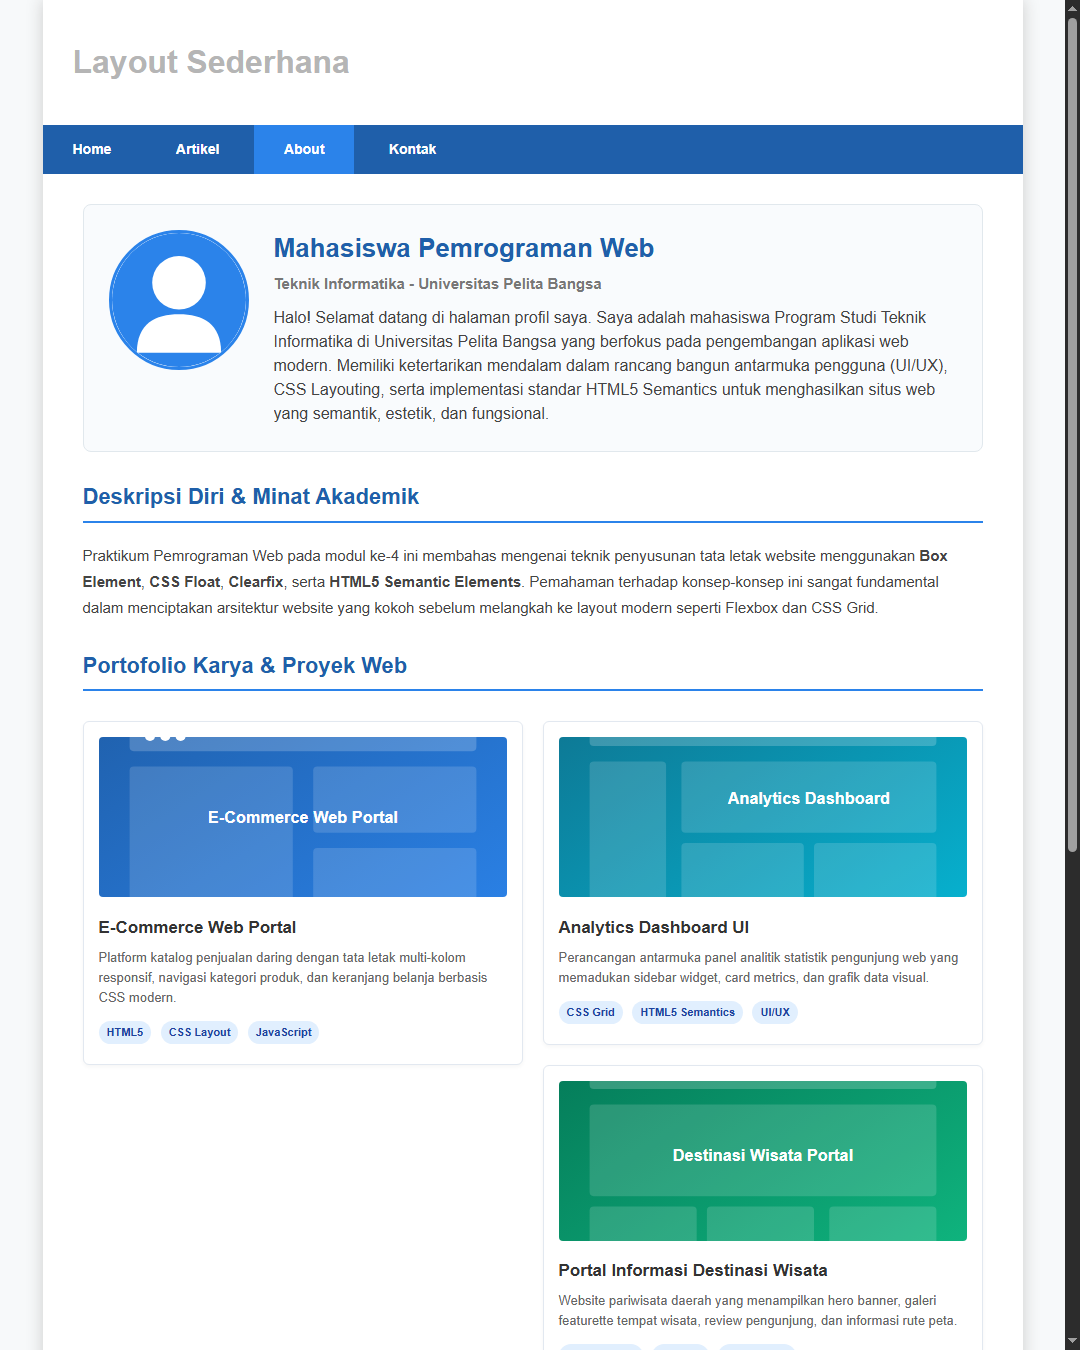
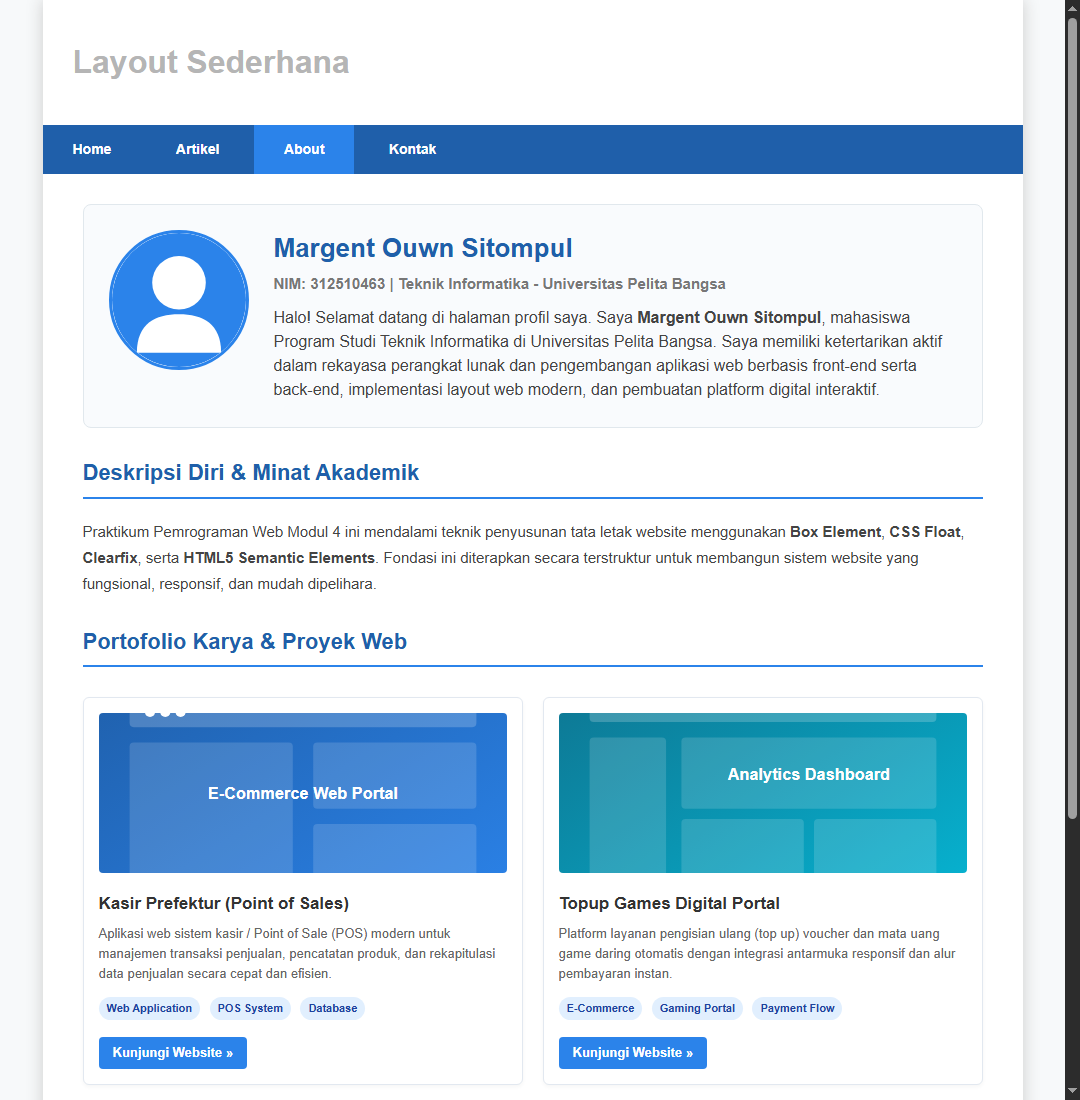
update: set Margent Ouwn Sitompul NIM 312510463 and live portfolio projects

diff --git a/lab4_layout/about.html b/lab4_layout/about.html
@@ -27,10 +27,10 @@
             <div class="profile-card">
                 <img src="images/avatar.svg" alt="Foto Profil" class="avatar">
                 <div class="bio">
-                    <h2>Mahasiswa Pemrograman Web</h2>
-                    <h4>Teknik Informatika - Universitas Pelita Bangsa</h4>
+                    <h2>Margent Ouwn Sitompul</h2>
+                    <h4>NIM: 312510463 | Teknik Informatika - Universitas Pelita Bangsa</h4>
                     <p>
-                        Halo! Selamat datang di halaman profil saya. Saya adalah mahasiswa Program Studi Teknik Informatika di Universitas Pelita Bangsa yang berfokus pada pengembangan aplikasi web modern. Memiliki ketertarikan mendalam dalam rancang bangun antarmuka pengguna (UI/UX), CSS Layouting, serta implementasi standar HTML5 Semantics untuk menghasilkan situs web yang semantik, estetik, dan fungsional.
+                        Halo! Selamat datang di halaman profil saya. Saya <strong>Margent Ouwn Sitompul</strong>, mahasiswa Program Studi Teknik Informatika di Universitas Pelita Bangsa. Saya memiliki ketertarikan aktif dalam rekayasa perangkat lunak dan pengembangan aplikasi web berbasis front-end serta back-end, implementasi layout web modern, dan pembuatan platform digital interaktif.
                     </p>
                 </div>
             </div>
@@ -38,65 +38,39 @@
             <!-- Deskripsi / Tentang Saya -->
             <h3 class="section-title">Deskripsi Diri & Minat Akademik</h3>
             <p style="line-height: 26px; margin-bottom: 20px; font-size: 15px; color: #444;">
-                Praktikum Pemrograman Web pada modul ke-4 ini membahas mengenai teknik penyusunan tata letak website menggunakan <strong>Box Element</strong>, <strong>CSS Float</strong>, <strong>Clearfix</strong>, serta <strong>HTML5 Semantic Elements</strong>. Pemahaman terhadap konsep-konsep ini sangat fundamental dalam menciptakan arsitektur website yang kokoh sebelum melangkah ke layout modern seperti Flexbox dan CSS Grid.
+                Praktikum Pemrograman Web Modul 4 ini mendalami teknik penyusunan tata letak website menggunakan <strong>Box Element</strong>, <strong>CSS Float</strong>, <strong>Clearfix</strong>, serta <strong>HTML5 Semantic Elements</strong>. Fondasi ini diterapkan secara terstruktur untuk membangun sistem website yang fungsional, responsif, dan mudah dipelihara.
             </p>
 
             <!-- Portofolio Proyek -->
             <h3 class="section-title">Portofolio Karya & Proyek Web</h3>
             <div class="portfolio-grid">
-                <!-- Proyek 1 -->
+                <!-- Proyek 1: Kasir Prefektur -->
                 <div class="portfolio-card">
                     <div class="portfolio-inner">
-                        <img src="images/portfolio1.svg" alt="E-Commerce Web Portal">
-                        <h3>E-Commerce Web Portal</h3>
-                        <p>Platform katalog penjualan daring dengan tata letak multi-kolom responsif, navigasi kategori produk, dan keranjang belanja berbasis CSS modern.</p>
-                        <div>
-                            <span class="tag-badge">HTML5</span>
-                            <span class="tag-badge">CSS Layout</span>
-                            <span class="tag-badge">JavaScript</span>
+                        <img src="images/portfolio1.svg" alt="Kasir Prefektur">
+                        <h3>Kasir Prefektur (Point of Sales)</h3>
+                        <p>Aplikasi web sistem kasir / Point of Sale (POS) modern untuk manajemen transaksi penjualan, pencatatan produk, dan rekapitulasi data penjualan secara cepat dan efisien.</p>
+                        <div style="margin-bottom: 12px;">
+                            <span class="tag-badge">Web Application</span>
+                            <span class="tag-badge">POS System</span>
+                            <span class="tag-badge">Database</span>
                         </div>
+                        <a href="https://kasir-prefektur.gt.tc/" target="_blank" class="btn btn-large" style="font-size: 13px; padding: 7px 14px; text-decoration: none;">Kunjungi Website &raquo;</a>
                     </div>
                 </div>
 
-                <!-- Proyek 2 -->
+                <!-- Proyek 2: Topup Games -->
                 <div class="portfolio-card">
                     <div class="portfolio-inner">
-                        <img src="images/portfolio2.svg" alt="Analytics Dashboard">
-                        <h3>Analytics Dashboard UI</h3>
-                        <p>Perancangan antarmuka panel analitik statistik pengunjung web yang memadukan sidebar widget, card metrics, dan grafik data visual.</p>
-                        <div>
-                            <span class="tag-badge">CSS Grid</span>
-                            <span class="tag-badge">HTML5 Semantics</span>
-                            <span class="tag-badge">UI/UX</span>
+                        <img src="images/portfolio2.svg" alt="Topup Games Portal">
+                        <h3>Topup Games Digital Portal</h3>
+                        <p>Platform layanan pengisian ulang (top up) voucher dan mata uang game daring otomatis dengan integrasi antarmuka responsif dan alur pembayaran instan.</p>
+                        <div style="margin-bottom: 12px;">
+                            <span class="tag-badge">E-Commerce</span>
+                            <span class="tag-badge">Gaming Portal</span>
+                            <span class="tag-badge">Payment Flow</span>
                         </div>
-                    </div>
-                </div>
-
-                <!-- Proyek 3 -->
-                <div class="portfolio-card">
-                    <div class="portfolio-inner">
-                        <img src="images/portfolio3.svg" alt="Destinasi Wisata Portal">
-                        <h3>Portal Informasi Destinasi Wisata</h3>
-                        <p>Website pariwisata daerah yang menampilkan hero banner, galeri featurette tempat wisata, review pengunjung, dan informasi rute peta.</p>
-                        <div>
-                            <span class="tag-badge">CSS Floating</span>
-                            <span class="tag-badge">Clearfix</span>
-                            <span class="tag-badge">Responsive</span>
-                        </div>
-                    </div>
-                </div>
-
-                <!-- Proyek 4 -->
-                <div class="portfolio-card">
-                    <div class="portfolio-inner">
-                        <img src="images/portfolio4.svg" alt="Sistem Informasi Akademik">
-                        <h3>Sistem Informasi Akademik (SIAKAD)</h3>
-                        <p>Prototipe portal mahasiswa universitas untuk pengelolaan Kartu Rencana Studi (KRS), transkrip nilai, jadwal perkuliahan, dan pengumuman kampus.</p>
-                        <div>
-                            <span class="tag-badge">Semantic Web</span>
-                            <span class="tag-badge">Form Handling</span>
-                            <span class="tag-badge">CSS3</span>
-                        </div>
+                        <a href="https://topupgames.gt.tc/" target="_blank" class="btn btn-large" style="font-size: 13px; padding: 7px 14px; text-decoration: none;">Kunjungi Website &raquo;</a>
                     </div>
                 </div>
             </div>

diff --git a/README.md b/README.md
@@ -44,12 +44,14 @@
 
 | Keterangan | Data Mahasiswa |
 | :--- | :--- |
-| **Nama Lengkap** | Mahasiswa Pelita Bangsa |
-| **NIM** | 312210000 |
-| **Kelas** | TI.22.A1 |
+| **Nama Lengkap** | **Margent Ouwn Sitompul** |
+| **NIM** | **312510463** |
+| **Kelas** | Teknik Informatika |
 | **Mata Kuliah** | Pemrograman Web |
 | **Dosen Pengampu** | Agung Nugroho, M.Kom |
 | **Instansi** | Universitas Pelita Bangsa |
+| **Portofolio 1** | [https://kasir-prefektur.gt.tc/](https://kasir-prefektur.gt.tc/) |
+| **Portofolio 2** | [https://topupgames.gt.tc/](https://topupgames.gt.tc/) |
 
 ---
 
@@ -381,18 +383,15 @@ File dibuat dengan nama [about.html](lab4_layout/about.html). Sesuai instruksi *
 **Komponen Halaman About:**
 1. **Profil Pengembang (*Profile Card*):**
    - Menampilkan foto avatar circular dengan aksen border biru.
-   - Nama mahasiswa dan status: *Mahasiswa Teknik Informatika - Universitas Pelita Bangsa*.
-   - Bio/ringkasan fokus keahlian di bidang front-end web development dan UI/UX design.
+   - Nama mahasiswa: **Margent Ouwn Sitompul**
+   - NIM: **312510463** | Program Studi Teknik Informatika - Universitas Pelita Bangsa.
+   - Deskripsi/bio fokus keahlian rekayasa perangkat lunak dan pengembangan aplikasi web.
 2. **Deskripsi Diri & Minat Akademik:**
    - Ulasan komprehensif mengenai penerapan konsep Box Element, CSS Float, Clearfix, dan HTML5 Semantics.
-3. **Galeri Portofolio Proyek (*Portfolio Grid*):**
-   - Layout grid 2x2 multi-kolom responsif dengan kartu karya (*project cards*).
-   - Menampilkan 4 proyek:
-     1. *E-Commerce Web Portal* (HTML5, CSS Layout, JavaScript)
-     2. *Analytics Dashboard UI* (CSS Grid, Semantics, UI/UX)
-     3. *Portal Informasi Destinasi Wisata* (CSS Floating, Clearfix)
-     4. *Sistem Informasi Akademik / SIAKAD* (Semantic Web, Form Handling)
-   - Disertai gambar representatif dan badge teknologi pendukung.
+3. **Galeri Portofolio Proyek Nyata (*Live Portfolio Projects*):**
+   - **Kasir Prefektur (Point of Sales):** Aplikasi web sistem kasir / POS modern untuk manajemen transaksi penjualan ([https://kasir-prefektur.gt.tc/](https://kasir-prefektur.gt.tc/)).
+   - **Topup Games Digital Portal:** Platform layanan pengisian ulang voucher dan mata uang game daring otomatis ([https://topupgames.gt.tc/](https://topupgames.gt.tc/)).
+   - Disertai tombol tautan langsung (*Call to Action*) menuju website portofolio aktif.
 4. **Keahlian & Penguasaan Teknologi (*Skills Progress Bar*):**
    - Baris visual persentase penguasaan teknologi web (HTML5 Semantics, CSS3 Layouting, Responsive Design, Git & GitHub).
 
